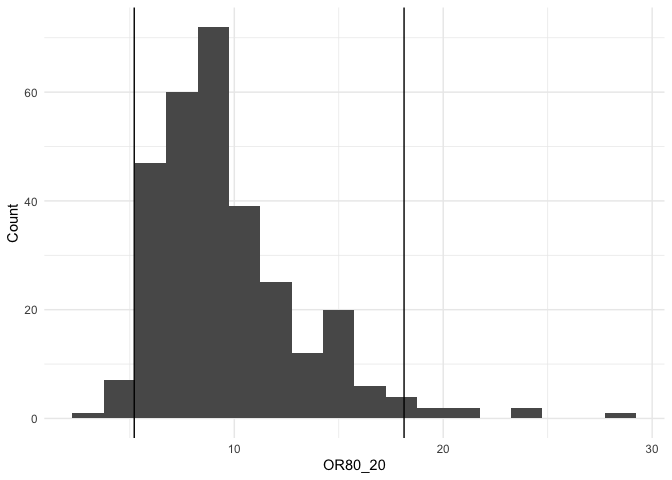
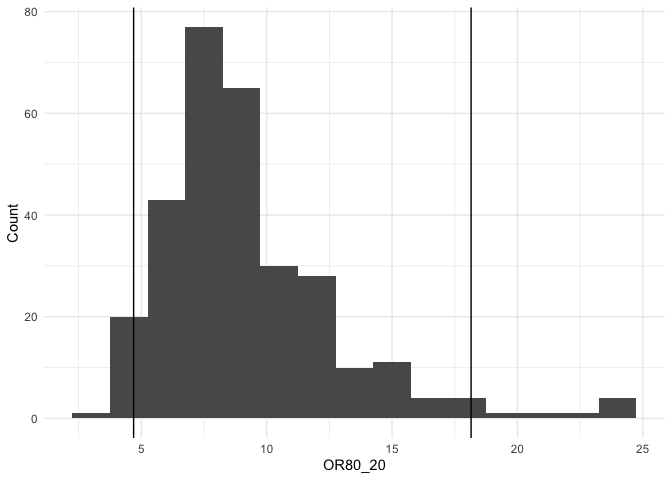
update installation instructions and cache bootstrap output

diff --git a/README.md b/README.md
@@ -19,9 +19,21 @@ hazard scores, and functions related to Digital Avatar.
 
 ## Installation
 
+### Github
+
+To install the most recent release from Github, go to the
+[release](https://github.com/amorris28/hazrd/releases) page, scroll down
+to Assets, and download the “Source code (tar.gz)” file. Then, in `R`,
+run:
+
+``` r
+install.packages("hazrd-0.1.0.tar.gz", repos = NULL, type="source")
+```
+
 ### Using `devtools`
 
-You can install the development version of hazrd from
+For a more up-to-date installation with all of the changes since the
+last release, install the development version of hazrd from
 [GitHub](https://github.com/) by cloning the repository:
 
 ``` bash
@@ -37,13 +49,10 @@ devtools::install("hazrd")
 Replace `"hazrd"` with the path to the repository on your local
 computer.
 
-### From source
+#### On a remote cluster
 
-Alternatively, for a more convenient installation on a remote cluster,
-such as TSD, you can install from source using a tarball. Either
-download the latest `tar.gz` from the
-[releases](https://github.com/amorris28/hazrd/releases) page or clone
-the repo and then build a tar ball yourself:
+To install the development version on a remote cluster, such as TSD,
+build a tarball from your local clone of the Github repo:
 
 ``` r
 devtools::build("hazrd")
@@ -52,7 +61,7 @@ devtools::build("hazrd")
 You can then install the `.tar.gz` with `install.packages` in `R`:
 
 ``` r
-install.packages("hazrd-0.1.0.tar.gz", repos = NULL, type="source")
+install.packages("hazrd_0.1.0.tar.gz", repos = NULL, type="source")
 ```
 
 ## Getting Started
@@ -95,9 +104,9 @@ str(HR80_20)
     ## List of 5
     ##  $ index    : chr "HR80_20"
     ##  $ value    : num 8.17
-    ##  $ conf.low : num 5.92
-    ##  $ conf.high: num 11.2
-    ##  $ iters    : num [1:300, 1] 8.7 7.27 6.45 6.65 9.1 ...
+    ##  $ conf.low : num 6.15
+    ##  $ conf.high: num 11.3
+    ##  $ iters    : num [1:300, 1] 6.06 7.21 7.76 7.23 9.27 ...
 
 Each `get_` function also returns the output from each bootstrap
 iteration in `$iters` so that the user can plot these or calculate their
@@ -126,10 +135,10 @@ str(OR80_20)
     ## List of 6
     ##  $ index    : chr "OR80_20"
     ##  $ value    : num 8.52
-    ##  $ conf.low : num 5.21
-    ##  $ conf.high: num 18.1
+    ##  $ conf.low : num 4.69
+    ##  $ conf.high: num 18.2
     ##  $ age      : num 70
-    ##  $ iters    : num [1:300, 1] 7.62 5.77 8.01 6.41 15.38 ...
+    ##  $ iters    : num [1:300, 1] 7.05 8.42 9.08 5.51 8.67 ...
 
 ``` r
 ggplot(mapping = aes(x = OR80_20$iters)) +
@@ -154,9 +163,9 @@ str(c_index)
     ## List of 5
     ##  $ index    : chr "C_Index"
     ##  $ value    : num 0.708
-    ##  $ conf.low : num 0.682
-    ##  $ conf.high: num 0.732
-    ##  $ iters    : num [1:300, 1] 0.694 0.702 0.707 0.699 0.706 ...
+    ##  $ conf.low : num 0.68
+    ##  $ conf.high: num 0.735
+    ##  $ iters    : num [1:300, 1] 0.679 0.695 0.701 0.703 0.706 ...
 
 Finally, plot the Kaplan-Meier curves with confidence intervals for
 centiles of interest.
